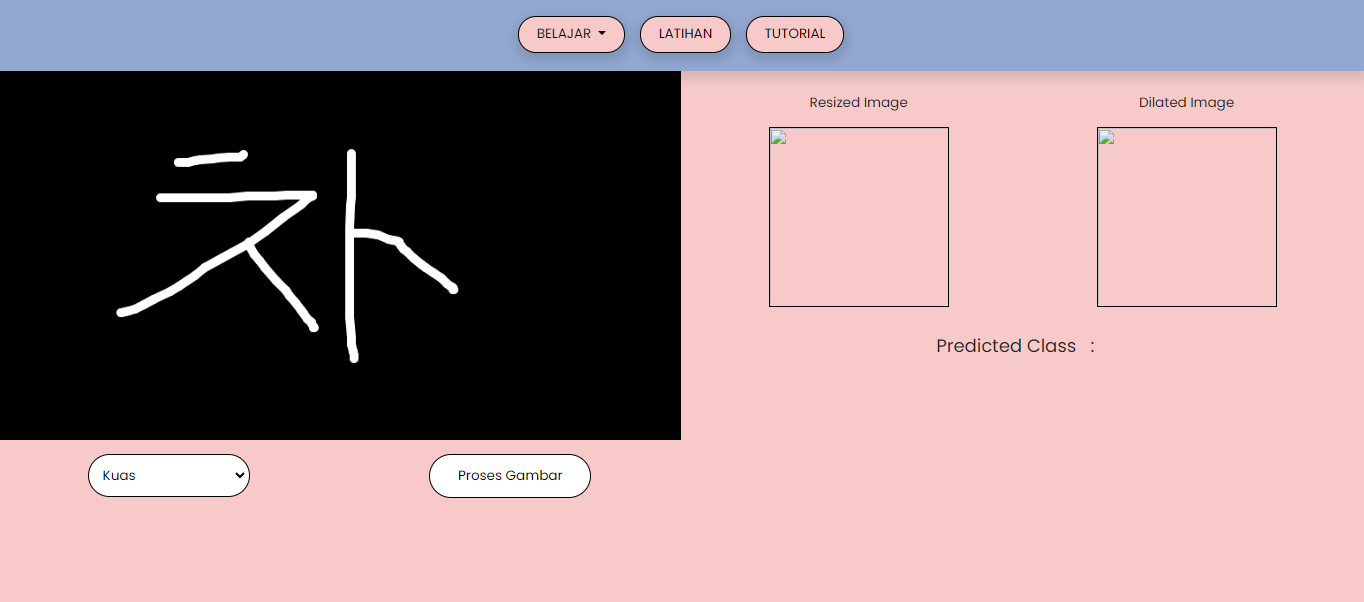
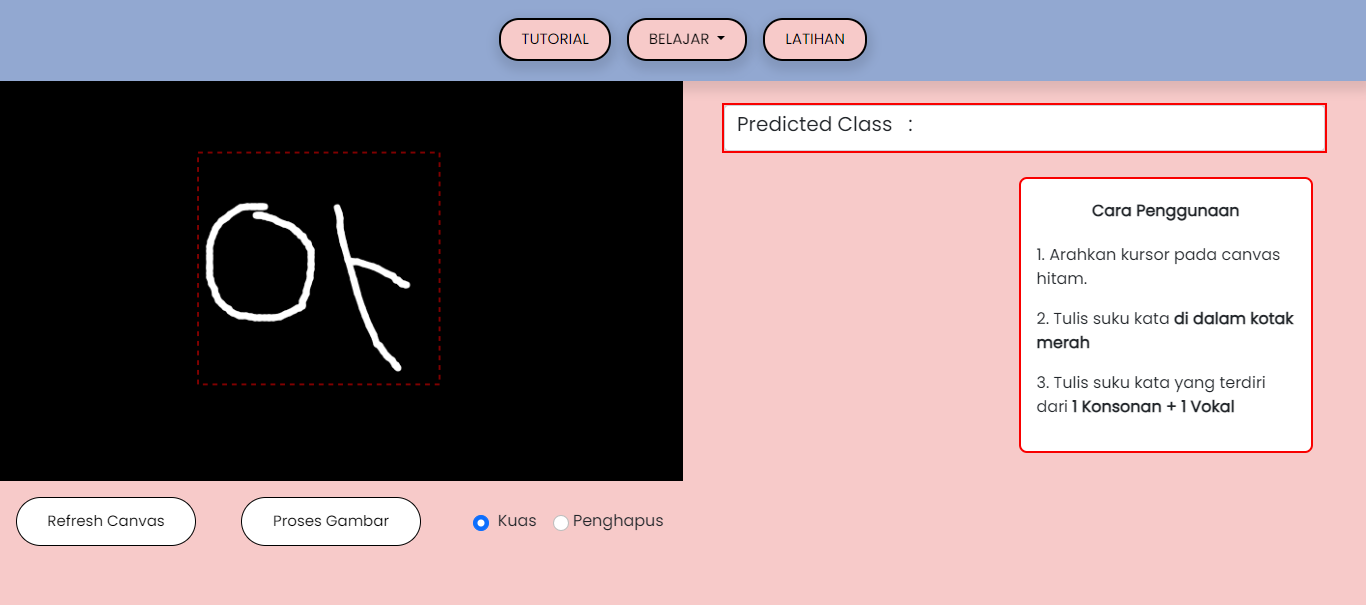
change assets for index.html

Changed region(s): [[0.0, 0.0, 1.0, 0.7475], [0.0, 0.7176, 0.5235, 0.9269], [0.0616, 0.2392, 0.3387, 0.6279]]

diff --git a/templates/index.html b/templates/index.html
@@ -49,11 +49,11 @@
                 <p class="card-text">1. Pada navigation bar, pilih menu "LATIHAN"</p>
                 <p class="card-text">2. Arahkan kursor pada canvas hitam. Tulis silabel atau suku kata yang terdiri dari 2 huruf</p>
                 <p class="card-text">3. (1 konsonan + 1 vokal)</p>
-                <p class="card-text">4. Tuliskan silabel dengan jelas dan besar, <b>ditengah-tengah canvas</b></p>
+                <p class="card-text">4. Tuliskan silabel dengan jelas, <b>di dalam kotak merah</b></p>
                 <img src="{{ url_for('static', filename='assets/Capture.PNG') }}" style="border:  1px solid #000; width: 70%; height: auto;" alt="" class="card-img center">
                 <p class="card-text mt-3">5. Jika terdapat kesalahan dalam menulis, pada menu di bawah canvas, ubah "Kuas" menjadi "Penghapus"</p>
                 <img src="{{ url_for('static', filename='assets/Capture1.PNG') }}" style="border:  1px solid #000; width: 70%; height: auto;" alt="" class="card-img center">
-                <p class="card-text mt-3">6. Tulis kembali silabel dengan jelas dan besar ditengah-tengah canvas seperti gambar di bawah ini</p>
+                <p class="card-text mt-3">6. Tulis kembali silabel dengan jelas di dalam kotak merah seperti gambar di bawah ini</p>
                 <img src="{{ url_for('static', filename='assets/Capture2.PNG') }}" style="border:  1px solid #000; width: 70%; height: auto;" alt="" class="card-img center">
                 <p class="card-text mt-3">7. Setelah selesai, klik tombol "Proses Gambar" yang terletak di bawah canvas</p>
                 <p class="card-text">8. Maka akan muncul romanisasi atau huruf latin dari silabel tersebut</p>
